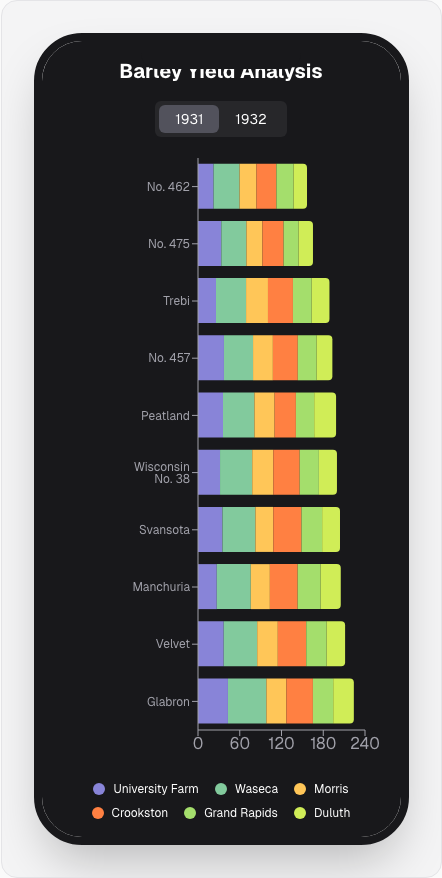
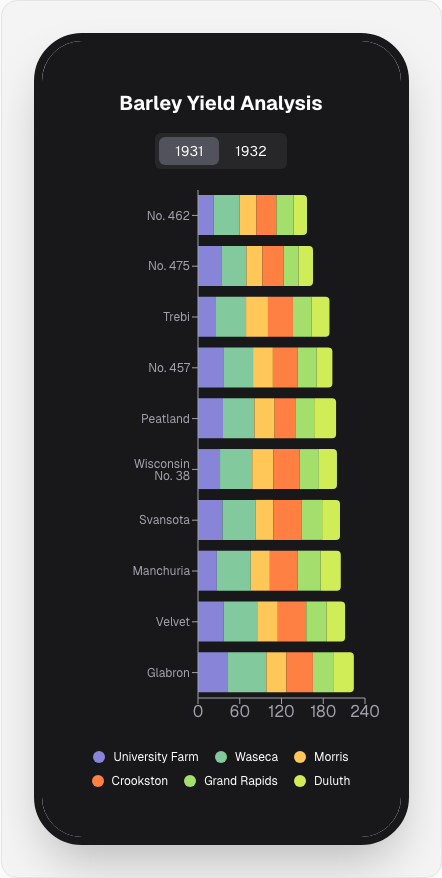
finished vega-altair-05

diff --git a/vega-mobile-projects/vega-altair-05/src/components/Visualization.tsx b/vega-mobile-projects/vega-altair-05/src/components/Visualization.tsx
@@ -37,7 +37,7 @@ export function Visualization() {
   };
 
   return (
-    <div className="w-full h-full bg-zinc-900 text-white p-4 flex flex-col">
+    <div className="w-full h-full bg-zinc-900 text-white p-4 pt-12 flex flex-col relative overflow-hidden">
       <div className="flex-shrink-0">
         <h1 className="text-xl font-bold text-center">Barley Yield Analysis</h1>
         <div className="flex justify-center my-4">
@@ -71,6 +71,9 @@ export function Visualization() {
             data={data}
             layout="vertical"
             margin={{ top: 5, right: 20, left: 80, bottom: 5 }}
+            onClick={(e) => {
+              if (!e) setSelectedVariety(null);
+            }}
           >
             <XAxis
               type="number"
@@ -99,13 +102,21 @@ export function Visualization() {
                 stackId="a"
                 fill={siteColors[site]}
                 onClick={handleBarClick}
+                isAnimationActive={true}
               >
-                {data.map((_entry, entryIndex) => (
+                {data.map((entry, entryIndex) => (
                   <Cell
-                    key={`cell-${_entry.variety}-${entryIndex}`}
+                    key={`cell-${entry.variety}-${entryIndex}`}
+                    opacity={
+                      selectedVariety === null ||
+                      selectedVariety.variety === entry.variety
+                        ? 1
+                        : 0.3
+                    }
                     radius={
                       index === sites.length - 1 ? [0, 4, 4, 0] : [0, 0, 0, 0]
                     }
+                    className="transition-opacity duration-300"
                   />
                 ))}
               </Bar>
@@ -114,7 +125,7 @@ export function Visualization() {
         </ResponsiveContainer>
       </div>
 
-      <div className="flex-shrink-0 mt-4">
+      <div className="flex-shrink-0 mt-4 mb-8">
         <div className="flex flex-wrap justify-center gap-x-4 gap-y-2">
           {sites.map((site) => (
             <div key={site} className="flex items-center text-xs">
@@ -130,40 +141,63 @@ export function Visualization() {
 
       <AnimatePresence>
         {selectedVariety && (
-          <motion.div
-            initial={{ y: "100%" }}
-            animate={{ y: 0 }}
-            exit={{ y: "100%" }}
-            transition={{ type: "spring", damping: 20, stiffness: 150 }}
-            className="absolute bottom-0 left-0 right-0 bg-zinc-800 p-4 rounded-t-lg shadow-lg"
-          >
-            <button
-              type="button"
+          <>
+            <motion.div
+              initial={{ opacity: 0 }}
+              animate={{ opacity: 1 }}
+              exit={{ opacity: 0 }}
+              className="absolute inset-0 bg-black/40 z-10"
               onClick={() => setSelectedVariety(null)}
-              className="absolute top-2 right-2 text-zinc-400 hover:text-white"
+            />
+            <motion.div
+              initial={{ y: "100%" }}
+              animate={{ y: 0 }}
+              exit={{ y: "100%" }}
+              transition={{ type: "spring", damping: 25, stiffness: 200 }}
+              className="absolute bottom-0 left-0 right-0 bg-zinc-800 p-6 rounded-t-2xl shadow-2xl z-20 border-t border-zinc-700"
             >
-              Close
-            </button>
-            <h3 className="text-lg font-bold mb-2">
-              {selectedVariety.variety}
-            </h3>
-            <div className="grid grid-cols-2 gap-2 text-sm">
-              {sites
-                .map((site) => ({
-                  site,
-                  yield: selectedVariety[
-                    site as keyof ProcessedDataPoint
-                  ] as number,
-                }))
-                .sort((a, b) => b.yield - a.yield)
-                .map(({ site, yield: yieldValue }) => (
-                  <div key={site} className="flex justify-between">
-                    <span>{site}</span>
-                    <span className="font-mono">{yieldValue.toFixed(2)}</span>
-                  </div>
-                ))}
-            </div>
-          </motion.div>
+              <div className="w-12 h-1.5 bg-zinc-600 rounded-full mx-auto mb-6" />
+              <div className="flex justify-between items-start mb-4">
+                <h3 className="text-xl font-bold text-white">
+                  {selectedVariety.variety}
+                </h3>
+                <button
+                  type="button"
+                  onClick={() => setSelectedVariety(null)}
+                  className="bg-zinc-700 hover:bg-zinc-600 text-white px-3 py-1 rounded-full text-sm font-medium transition-colors"
+                >
+                  Close
+                </button>
+              </div>
+              <div className="grid grid-cols-1 gap-3">
+                {sites
+                  .map((site) => ({
+                    site,
+                    yield: selectedVariety[
+                      site as keyof ProcessedDataPoint
+                    ] as number,
+                  }))
+                  .sort((a, b) => b.yield - a.yield)
+                  .map(({ site, yield: yieldValue }) => (
+                    <div
+                      key={site}
+                      className="flex justify-between items-center bg-zinc-700/50 p-3 rounded-lg"
+                    >
+                      <div className="flex items-center">
+                        <div
+                          className="w-3 h-3 rounded-full mr-3"
+                          style={{ backgroundColor: siteColors[site] }}
+                        />
+                        <span className="text-zinc-200">{site}</span>
+                      </div>
+                      <span className="font-mono font-bold text-lg text-white">
+                        {yieldValue.toFixed(2)}
+                      </span>
+                    </div>
+                  ))}
+              </div>
+            </motion.div>
+          </>
         )}
       </AnimatePresence>
     </div>
